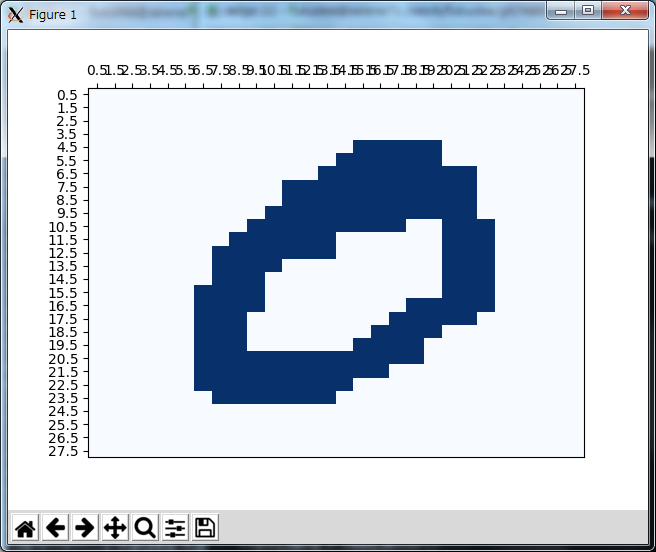
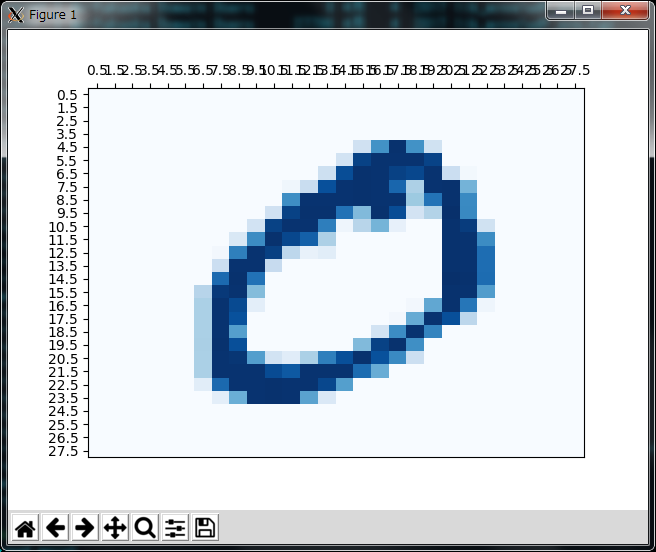
update read_mnist.py and mnist1.png use 255 steps color

diff --git a/read_mnist.py b/read_mnist.py
@@ -38,7 +38,7 @@ def read_mnist():
 
     return {"labels":labels, "images":images}
 
-def main():
+if __name__ == "__main__":
     argv = sys.argv
     argc = len(argv)
     if argc == 1:
@@ -52,7 +52,4 @@ def main():
     train_data = read_mnist()
         
     print("answer: ", train_data[labels][img_no])
-    draw_heatmap(train_data[images][img_no,:,:], 0.0, 1.0)
-    
-if __name__ == "__main__":
-    main()
+    draw_heatmap(train_data[images][img_no,:,:], 0, 255)
